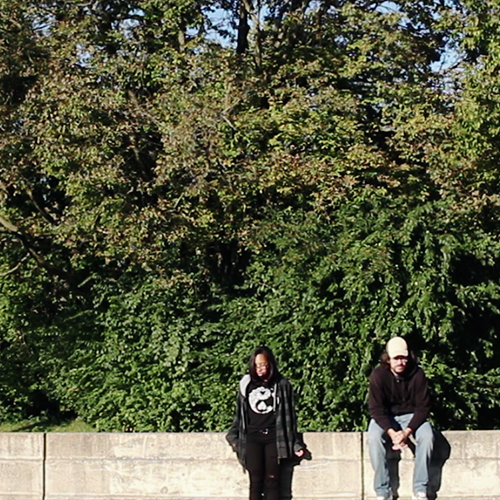
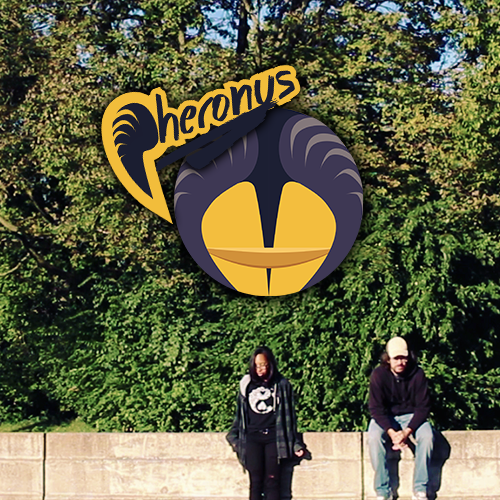
Fix: Changes position of footer on Content pages
Hopefully fixes the footer issue with covering up the content on works
pages in smaller responsive views.  Also replaces gallery thumbnail for
Pheronus Short Film.

diff --git a/css/content.css b/css/content.css
@@ -84,10 +84,11 @@ h2 {
   height: 460px;
 }
 footer {
-  position:fixed;
+  /*position:fixed;*/
   left:0px;
   bottom:0px;
-  height:70px;
+  /*height:70px;*/
+  height:50px;
   width:100%;
 }
 
